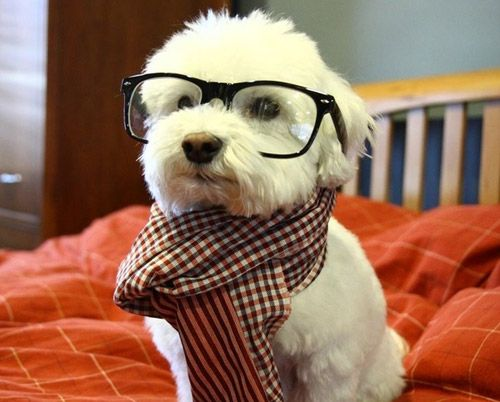
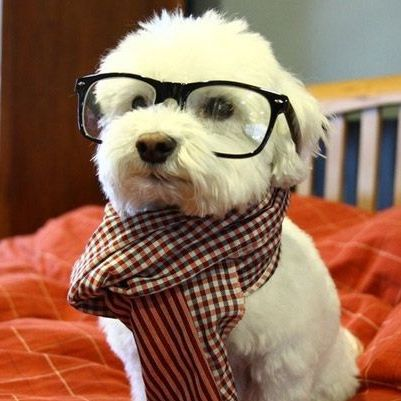
match photo displays after questions are answered

diff --git a/app/public/survey.html b/app/public/survey.html
@@ -251,33 +251,41 @@
              <!-- Modal Structure -->
             <div id="modal1" class="modal">
                 <div class="modal-content center-align">
-                    <h4 class="fetching">Fetching... </h4>
-                    <h4 class="match_details">You matched with: </h4>
-                    <hr>
+                    <h4 class="fetching" style="border-bottom: 1px solid #26a69a; padding-bottom:20px">Fetching... </h4>
+
+                    <h4 id="userName" class="match_details" style="border-bottom: 1px solid #26a69a; padding-bottom:20px; color: #26a69a">  OUR SNIFF TEST SUGGESTS: </h4>
+                    <!-- <h4 class="match_details">You matched with: </h4> -->
+                    <!-- <hr> -->
                 <!-- Progress Bar -->
                     <div class="progress fetching" style="margin-top: 6vh">
                         <div class="indeterminate"></div>
                     </div>
                 <!-- Match photos -->
-                    <div class="match_details row center-align valign-wrapper" style="padding-top: 40px!important">
+                    <div class="match_details center-align">
                         <!-- Match 1 -->
-                        <div class="col s5">
-                            <img src="http://via.placeholder.com/200x200" alt="" class="z-depth-3 left-align responsive-img"> 
+                        <!-- <div class="col s5">
+                            <img id="userImg" class="z-depth-3 left-align responsive-img"> 
                             <h5 id="userName" style="color: #26a69a">user_details</h5>
-                        </div>
+                        </div> -->
                         <!-- Icon -->
-                        <div class="col s2">
+                        <!-- <div class="col s2">
                             <span class="black-text">
                                 <i class="material-icons center-align" style="font-size: 6em!important; color: #26a69a">done</i>
                             </span>
-                        </div>
+                        </div> -->
                         <!-- Match 2 -->
-                        <div class="col s5">
-                            <img id="newMatchImg" src="http://via.placeholder.com/200x200" alt="" class="z-depth-3 right-align responsive-img"> 
-                            <h5 id="newMatch" style="color: #26a69a">match</h5>
-                        </div>
+                        <!-- <div class="col s5"> -->
+                            <div class="row center-align valign-wrapper" style="padding-top: 40px!important; padding-bottom: 0!important">
+                                <img id="newMatchImg" class="z-depth-3 right-align responsive-img"style="max-width: 300px; width: 100%; height: auto; margin: 0 auto"> 
+                            </div>
+                            <div class="row center-align valign-wrapper" style="max-width: 300px; width: 100%; height: auto; display: block; margin: 0 auto">
+                                <h5 id="newMatch" style="color: #26a69a; padding-top: 40px!important">match</h5>
+                            </div>
+                       </div>
                     </div>
-                </div>
+                        <!-- </div> -->
+                    <!-- </div> -->
+                <!-- </div> -->
 
                 <!-- Modal-footer -->
                 <div class="modal-footer">

diff --git a/app/public/js/layout.js b/app/public/js/layout.js
@@ -5,6 +5,8 @@
 
 $('document').ready(function() {
     // Hidden elements on load
+   
+
     $(".match_details").hide();
     $("#survey").hide();
     $('#user_details').show();
@@ -47,23 +49,35 @@ $('document').ready(function() {
               $('#q_10').val(),
             ]
       };
+   
 
       $.post("/api/friends", newPawfile, function(data){
         console.log(data.first_name)
-        $('#newMatch').html(data.first_name);
+        var bestMatch = data.first_name
 
-        if (data.first_name === "Countess Droolsbury"){
-          $('<img />').attr({
-            'src': 'assets/images',
-            'alt': 'Countess Droolsbury',
-            'title': 'Countess Droolsbury',
-        }).html('#newMatchImg');
+        $('#newMatch').html(bestMatch);
+
+        if (bestMatch === "Countess Droolsbury"){
+            $('#newMatchImg').attr('src', 'assets/images/countess_drooslbury.jpg');
+        } else if (bestMatch === "Salvador Dogi"){
+          $('#newMatchImg').attr('src', 'assets/images/salvador_dogi.jpg');
+        } else if (bestMatch === "Professor Wagglesworth"){
+          $('#newMatchImg').attr('src', 'assets/images/professor_wagglesworth.jpg');
+        } else if (bestMatch === "Miss Furbulous"){
+          $('#newMatchImg').attr('src', 'assets/images/miss_furbulous.jpg');
         }
 
         console.log(data.user_name)
-        $('#userName').html(data.user_name);
+        var userName = data.user_name.toUpperCase()
+        $('#userName').prepend(userName)
+        $('#userImg').attr(data.user_pic)
       })
 
+
       })
+
+      function bestMatchPhoto(){
+        
+      }
 }) 
 

diff --git a/app/data/friends.js b/app/data/friends.js
@@ -8,25 +8,25 @@ var friends = [
     {
         "first_name":"Miss Furbulous",
         "last_name":"Lee",
-        "photo": './src/assets/images', 
+        "photo": "assets/images/miss_furbulous.jpg", 
         "scores":[3,1,3,1,1,1,3,3,3,2]
       },
       {
         "first_name": "Salvador Dogi",
         "last_name": "S.",
-        "photo":"salvador_dogi.jpg",
+        "photo":"assets/images/salvador_dogi.jpg",
         "scores":[3,3,1,3,3,2,1,2,3,2]
       },
       {
         "first_name": "Professor Wagglesworth",
         "last_name": "I.",
-        "photo":"",
+        "photo":"assets/images/professor_wagglesworth.jpg",
         "scores": [2,2,1,3,3,2,2,2,1,1]
       }, 
       {
         "first_name": "Countess Droolsbury",
         "last_name": "R.",
-        "photo":"countess_droolsbury.jpg",
+        "photo":"assets/images/countess_drooslbury.jpg",
         "scores":[1,2,2,1,2,2,1,1,2,3]
       }, 
 

diff --git a/app/routing/htmlRoutes.js b/app/routing/htmlRoutes.js
@@ -17,6 +17,12 @@ module.exports = (app) => {
           
       });
 
+      app.get("/countessdroolsbury", (req, res) => {
+
+        res.sendFile(path.join(__dirname, "../public/assets/images/countess_drooslbury.jpg"));
+          
+      });
+
        // 'catch-all' Route to all browser extension except /survey and /api/friends => displays the home page
       app.get("*", (req, res) => {
 
